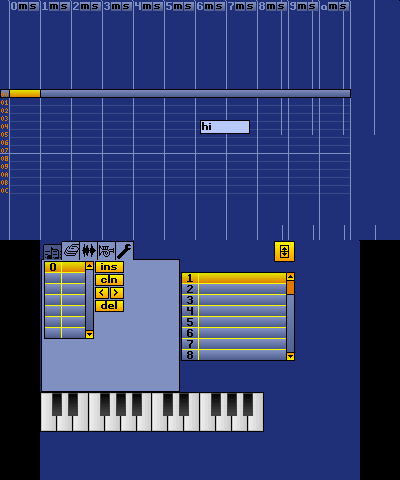
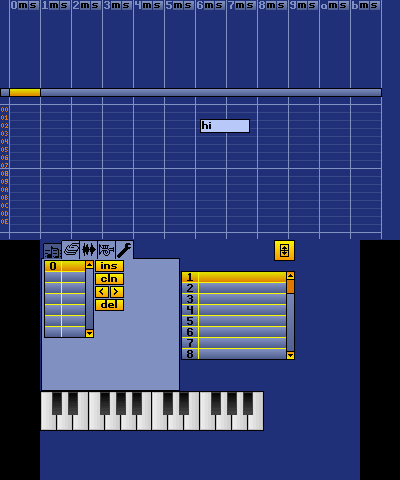
lots more stuff

diff --git a/source/main.cpp b/source/main.cpp
@@ -23,6 +23,7 @@
 #include "gfx/piano.h"
 #include "gfx/tabbox.h"
 #include "gfx/widget.h"
+#include "gfx/messagebox.h"
 
 typedef struct {
     ModPlugFile *plug;
@@ -83,12 +84,15 @@ int main(int argc, char **argv) {
     romfsInit();
     gfxSetDoubleBuffering(GFX_TOP, false);
     gfxSetDoubleBuffering(GFX_BOTTOM, false);
+    // gfxSet3D(true);
 
     u8 *fb_main_l = gfxGetFramebuffer(GFX_TOP, GFX_LEFT, NULL, NULL);
-    // u8 *fb_main_r = gfxGetFramebuffer(GFX_TOP, GFX_RIGHT, NULL, NULL);
+    u8 *fb_main_r = gfxGetFramebuffer(GFX_TOP, GFX_RIGHT, NULL, NULL);
     u8 *fb_sub = gfxGetFramebuffer(GFX_BOTTOM, GFX_RIGHT, NULL, NULL);
+    u8 *fb_main_virt = (u8*) malloc(3 * 400 * 240 * sizeof(u8) + 1); // virtual framebuffers so we don't see weird shit on screen
+    u8 *fb_sub_virt = (u8*) malloc(3 * 320 * 240 * sizeof(u8) + 1);
 
-    GUI *gui = new GUI(fb_main_l, fb_sub);
+    GUI *gui = new GUI(fb_main_virt, fb_sub_virt);
     bool was_just_touch = false;
 
     // ----------------------------------------
@@ -103,25 +107,27 @@ int main(int argc, char **argv) {
     Label *l_l = new Label(200, 120, 50, 14);
     Label *l_r = new Label(203, 120, 50, 14);
     NumberSlider *ns = new NumberSlider(105, 60, 32, 17, 12, 1, 256, true);
-    ns->setFramebuf(fb_sub);
+    ns->setFramebuf(fb_sub_virt);
     ns->setTheme(t, t->col_dark_bg);
 
     PrintConsole rightWindow;
-    bgg->setFramebuf(fb_main_l);
+    bgg->setFramebuf(fb_main_virt);
     bgg->setTheme(t, t->col_dark_bg);
-    bggg->setFramebuf(fb_sub);
+    bggg->setFramebuf(fb_sub_virt);
     bggg->setTheme(t, t->col_dark_bg);
 
     int last_x = 0;
     int last_y = 0;
+
+    int frame = 0;
     ListBox *l = new ListBox(141, 32, 114, 89, 0x80, true, true, false);
 
-    l->setFramebuf(fb_sub);
+    l->setFramebuf(fb_sub_virt);
     b->setTheme(t, t->col_dark_bg);
 
     bgg->drawFullBg();
     bggg->drawFullBg();
-    l_l->setFramebuf(fb_main_l);
+    l_l->setFramebuf(fb_main_virt);
     l_l->setTheme(t, t->col_dark_bg);
     l_l->setCaption("hi");
     gui->setTheme(t, t->col_bg);
@@ -132,7 +138,7 @@ int main(int argc, char **argv) {
         new BitButton(234, 1, 21, 21, icon_flp_raw, 18, 18);
 
     TabBox *tabbox = new TabBox(1, 1, 139, 151, TABBOX_ORIENTATION_TOP, 16,
-                                true, fb_main_l, fb_sub);
+                                true, fb_main_virt, fb_sub_virt);
 
     ListBox *lbpot = new ListBox(4, 21, 50, 78, 1, true);
     lbpot->set(0, " 0");
@@ -154,8 +160,13 @@ int main(int argc, char **argv) {
     // buttoncloneptn->registerPushCallback(handlePtnClone);
     MemoryIndicator *memoryiindicator = new MemoryIndicator(87, 90, 50, 8);
     State *state = new State();
-    PatternView *pv = new PatternView(0, 1, 400, 192, state);
+    PatternView *pv = new PatternView(0, 1, 400, 239, state, false);
     Song *song = new Song();
+    song->channelAdd();
+    song->channelAdd();
+    song->channelAdd();
+    song->channelAdd();
+    song->channelAdd();
     song->channelAdd();
     song->channelAdd();
     song->channelAdd();
@@ -189,6 +200,11 @@ int main(int argc, char **argv) {
     // gui->registerWidget(memoryiindicator, 0, SUB_SCREEN);
 
     pv->setTheme(t, t->col_dark_bg);
+    MessageBox *mb = new MessageBox("one moment", 0, fb_main_virt, fb_sub_virt);
+    mb->setTheme(t, t->col_bg);
+	// gui->registerOverlayWidget(mb, 0, SUB_SCREEN);
+	// mb->show();
+	// mb->pleaseDraw();
     gui->registerWidget(pv, 0, MAIN_SCREEN);
     gui->revealAll();
 
@@ -196,6 +212,7 @@ int main(int argc, char **argv) {
     // consoleDebugInit(debugDevice_SVC);
 
     printf("poo\n");
+    
     // for now using libmodplug for testing purposes only
     // if there are performance issues maybe switch to ported
     // version of libntxm7..?
@@ -268,7 +285,13 @@ int main(int argc, char **argv) {
     // ---------------------------------
     gui->drawSubScreen();
     gui->drawMainScreen();
+    // draw everything 
+    // gui->switchScreens();
+    memcpy(fb_main_l, fb_main_virt, 400 * 240 * 3 * sizeof(u8));
+    memcpy(fb_sub, fb_sub_virt, 240 * 320 * 3 * sizeof(u8));
     while (aptMainLoop()) {
+        pv->_3d = false;
+        // mb->pleaseDraw();
         // fprintf(stderr, "wtf????");
         if (hidKeysDown() & KEY_START) break;
 
@@ -286,6 +309,9 @@ int main(int argc, char **argv) {
             last_y = touch.py;
             if (!was_just_touch) gui->penDown(touch.px, touch.py);
             was_just_touch = true;
+            // pv->updateSelection();
+            // redraw_main_requested = true;
+            gui->drawSubScreen();
         } else {
             if (was_just_touch) {
                 // redraw_requested = true;
@@ -293,10 +319,14 @@ int main(int argc, char **argv) {
                 last_x = -255;
                 last_y = -255;
                 was_just_touch = false;
+                // pv->updateSelection();
+                redraw_main_requested = true;
+
             }
+            gui->drawSubScreen();
         }
         bool fastscroll = hidKeysHeld() & KEY_B;
-        if (hidKeysDown() & KEY_DUP) {
+        if (hidKeysHeld() & KEY_DUP && frame == 0) {
             int newrow = state->getCursorRow();
 
             if (fastscroll == false) {
@@ -311,7 +341,7 @@ int main(int argc, char **argv) {
             pv->updateSelection();
             redraw_main_requested = true;
 
-        } else if (hidKeysDown() & KEY_DDOWN) {
+        } else if (hidKeysHeld() & KEY_DDOWN && frame == 0) {
             int newrow = state->getCursorRow();
 
             if (fastscroll == false) {
@@ -328,13 +358,13 @@ int main(int argc, char **argv) {
             redraw_main_requested = true;
         }
 
-        if ((hidKeysDown() & KEY_DLEFT) && (!false)) {
+        if ((hidKeysHeld() & KEY_DLEFT && frame == 0) && (!false)) { // temp - need a diff way of slowing down input
             if (state->channel > 0) {
                 state->channel--;
                 pv->updateSelection();
                 redraw_main_requested = true;
             }
-        } else if ((hidKeysDown() & KEY_DRIGHT) && (!false)) {
+        } else if ((hidKeysHeld() & KEY_DRIGHT && frame == 0) && (!false)) {
             if (state->channel < song->getChannels() - 1) {
                 state->channel++;
                 pv->updateSelection();
@@ -345,6 +375,16 @@ int main(int argc, char **argv) {
             gui->drawMainScreen();
             redraw_main_requested = false;
         }
+        
+        // if (frame % 2 == 0)
+        memcpy(fb_sub, fb_sub_virt, 400 * 240 * 3 * sizeof(u8));
+        // else
+        memcpy(fb_main_l, fb_main_virt, 240 * 320 * 3 * sizeof(u8));
+        // memcpy(fb_main_r, fb_main_virt, 400 * 240 * 3 * sizeof(u8));
+        frame = (frame + 1) % 4; // simulate 30fps from NT (for now)
+        // pv->setFramebuf(fb_main_r);
+        // pv->_3d = true;
+        // pv->pleaseDraw();
         gfxFlushBuffers();
         gfxSwapBuffers();
 
@@ -357,6 +397,7 @@ int main(int argc, char **argv) {
         linearFree(wavebufs[1].data_pcm16);
     }
 
+    
     romfsExit();
     ndspExit();
     gfxExit();

diff --git a/source/gfx/patternview.cpp b/source/gfx/patternview.cpp
@@ -33,7 +33,7 @@
 /* ===================== PUBLIC ===================== */
 
 // Constructor sets base variables
-PatternView::PatternView(u16 _x, u16 _y, u16 _width, u16 _height, State *_state)
+PatternView::PatternView(u16 _x, u16 _y, u16 _width, u16 _height, State *_state, bool three_d = false /* temp 3d test */)
 	:Widget(_x, _y, _width, _height),
 	onMute(0), pattern(0), song(0), state(_state),
 	col_lines(RGB15(16,18,24)),
@@ -57,7 +57,7 @@ PatternView::PatternView(u16 _x, u16 _y, u16 _width, u16 _height, State *_state)
 	col_bg(RGB15(4,6,15)),
 	cb_sel_highlight(RGB15(31,24,0)),
 	hscrollpos(0), lines_per_beat(8), selection_exists(false), pen_down(false),
-	effects_visible(false), cell_width(50) // todo show fx
+	effects_visible(false), cell_width(50), _3d(three_d) // todo show fx
 {
 	for(int i=0;i<32;++i)
 	{
@@ -256,7 +256,7 @@ void PatternView::draw(void)
 	s32 sel_screen_x1 = -1, sel_screen_x2 = -1, sel_screen_y1 = -1, sel_screen_y2 = -1;
 
 	// dmaFillWords(colcol, *vram, 192*256*2);
-    // drawFilledBox(0, 0, SCREEN_WIDTH_TOP, SCREEN_HEIGHT, col_bg); // todo NO
+    drawFilledBox(0, 0, SCREEN_WIDTH_TOP, SCREEN_HEIGHT, col_bg); // todo NO
 	
 	// Selection
 	if(selection_exists == true) {
@@ -310,7 +310,7 @@ void PatternView::draw(void)
 	
 	// V-Lines
 	for(u16 i=0;i<=getNumVisibleChannels();++i) {
-		drawVLine(PV_BORDER_WIDTH-1+i*getCellWidth(), 0, width-PV_BORDER_WIDTH, linescol);
+		drawVLine(PV_BORDER_WIDTH-1+i*getCellWidth(), 0, height, linescol);
 	}
 	
 	// Cursor bar (highlight)
@@ -321,7 +321,7 @@ void PatternView::draw(void)
 			&&	(sel_screen_y2 >= PV_CURSORBAR_Y + 1 + PV_CELL_HEIGHT-1)
 			&&	(sel_screen_x1 <= getEffectiveWidth())
 			&&	(sel_screen_x2 >= PV_BORDER_WIDTH)) {
-				s32 cursor_highlight_x1 = std::max((int) sel_screen_x1, PV_BORDER_WIDTH + 1);
+				s32 cursor_highlight_x1 = std::max((int) sel_screen_x1, PV_BORDER_WIDTH + 1) + (_3d ? 4 : 0);
 				drawFilledBox(cursor_highlight_x1, PV_CURSORBAR_Y+1, sel_screen_x2 - cursor_highlight_x1 - 1, PV_CELL_HEIGHT-1, cb_sel_highlight);
 		}
 	}
@@ -392,8 +392,8 @@ void PatternView::draw(void)
 				mute_col1 = cb_col1;
 				mute_col2 = cb_col2;
 			}
-			drawGradient(mute_col1, mute_col2, MUTE_X(i), MUTE_Y, MUTE_WIDTH, MUTE_HEIGHT);
-			drawString("m", PV_BORDER_WIDTH+i*getCellWidth()+9, 0, 0);
+			drawGradient(mute_col1, mute_col2, MUTE_X(i) + (_3d ? 4 : 0), MUTE_Y, MUTE_WIDTH, MUTE_HEIGHT);
+			drawString("m", PV_BORDER_WIDTH+i*getCellWidth()+9 + (_3d ? 4 : 0), 0, 0);
 		}
 		
 		if(solo_channels[chn] == true)

diff --git a/include/gfx/patternview.h b/include/gfx/patternview.h
@@ -86,7 +86,7 @@ const u8 notes_signs[] =   {0 , 1 , 0 , 1 , 0 , 0 , 1 , 0 , 1 , 0 , 1 ,  0};
 class PatternView: public Widget {
 	public:
 		// Constructor sets base variables
-		PatternView(u16 _x, u16 _y, u16 _width, u16 _height, State *_state);
+		PatternView(u16 _x, u16 _y, u16 _width, u16 _height, State *_state, bool three_d);
 		
 		// Drawing request
 		void pleaseDraw(void);
@@ -121,7 +121,8 @@ class PatternView: public Widget {
 		bool isMuted(u16 channel);
 		void unmute(u16 channel);
 		void toggleEffectsVisibility(bool on);
-		
+        bool _3d = false;
+
 	private:
 		void draw(void);
 		

diff --git a/source/gfx/messagebox.cpp b/source/gfx/messagebox.cpp
@@ -31,8 +31,11 @@ limitations under the License.
 // Takes a list of alternating button captions and callbacks
 MessageBox::MessageBox(const char *message, u8 n_buttons, u8 *fb_main_, u8 *fb_sub_, ...)
 	:Widget((SCREEN_WIDTH_BOTTOM-MB_MIN_WIDTH)/2, (SCREEN_HEIGHT-MB_HEIGHT)/2, MB_MIN_WIDTH, MB_HEIGHT),
-	n_buttons(n_buttons), gui(fb_main_, fb_sub_)
+	n_buttons(n_buttons), fb_main(fb_main_), fb_sub(fb_sub_)
 {
+    GUI gui(fb_main, fb_sub);
+    gui.setupFramebuffers(fb_main, fb_sub);
+    
 	msg = (char*)calloc(1, strlen(message)+1);
 	strcpy(msg, message);
 

diff --git a/include/gfx/gui.h b/include/gfx/gui.h
@@ -11,9 +11,9 @@
 class GUI {
 	public:
 		GUI(u8 *fb_main_, u8 *fb_sub_);
-
+		GUI(void);
 		void setTheme(Theme *theme_, u32 bgcolour_);
-
+		void setupFramebuffers(u8 *fb_main, u8 *fb_sub); // only necessary in special cases
 		void registerWidget(Widget *w, u16 listeningButtons=0, u8 screen = SUB_SCREEN);
 
 		void unregisterWidget(Widget *w);
@@ -53,6 +53,8 @@ class GUI {
 		};
 
 	private:
+		friend class MessageBox;
+		
 		std::vector<Widget*> widgets_main, widgets_sub;
 		std::vector<Widget*> shortcuts;
 		Widget *activeWidget;

diff --git a/include/gfx/widget.h b/include/gfx/widget.h
@@ -109,8 +109,8 @@ class Widget {
             if (fb == NULL)
                 return;
 
-            // if (i < 0 || i > 128000)
-            //     return;
+            if (i < 0 || i > 240 * 400)
+                return;
 
             fb[i * 3] = b;
             fb[i * 3 + 1] = g;

diff --git a/source/gfx/gui.cpp b/source/gfx/gui.cpp
@@ -30,6 +30,12 @@ GUI::GUI(u8 *fb_main_, u8 *fb_sub_)
 	}
 }
 
+GUI::GUI() : GUI(NULL, NULL) { }
+
+void GUI::setupFramebuffers(u8 *_fb_main, u8 *_fb_sub) {
+	fb_main = _fb_main;
+	fb_sub = _fb_sub;
+}
 // Sets the theme - mandatory!
 void GUI::setTheme(Theme *theme_, u32 bgcolour_)
 {

diff --git a/include/gfx/messagebox.h b/include/gfx/messagebox.h
@@ -40,7 +40,8 @@ class MessageBox: public Widget {
 		
 	private:
 		void draw(void);	
-	
+        u8 *fb_main;
+        u8 *fb_sub;
 		GUI gui;
 		//Label *label;
 		char *msg;
